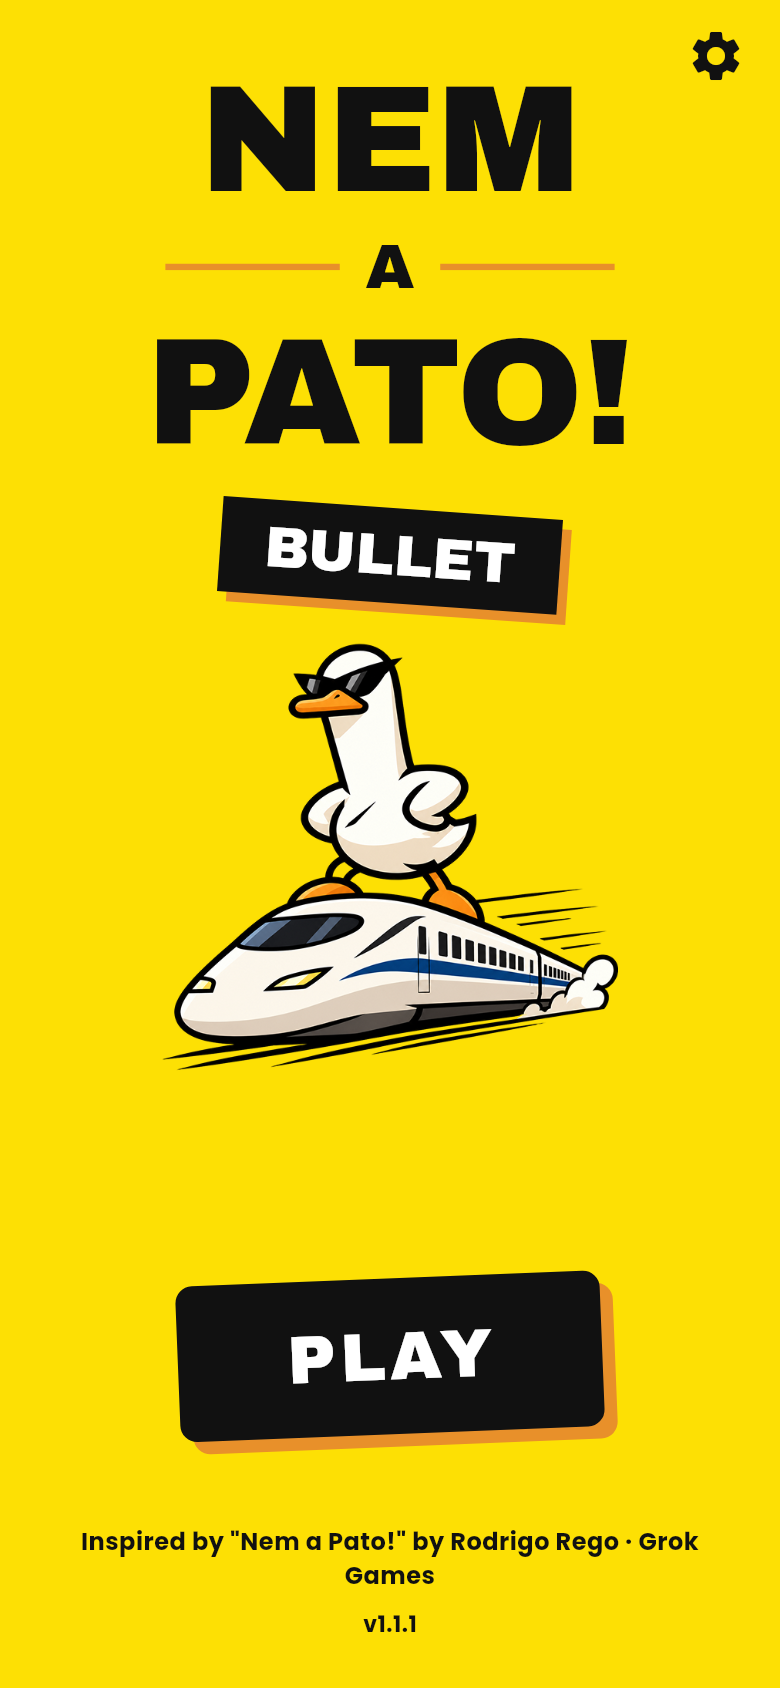
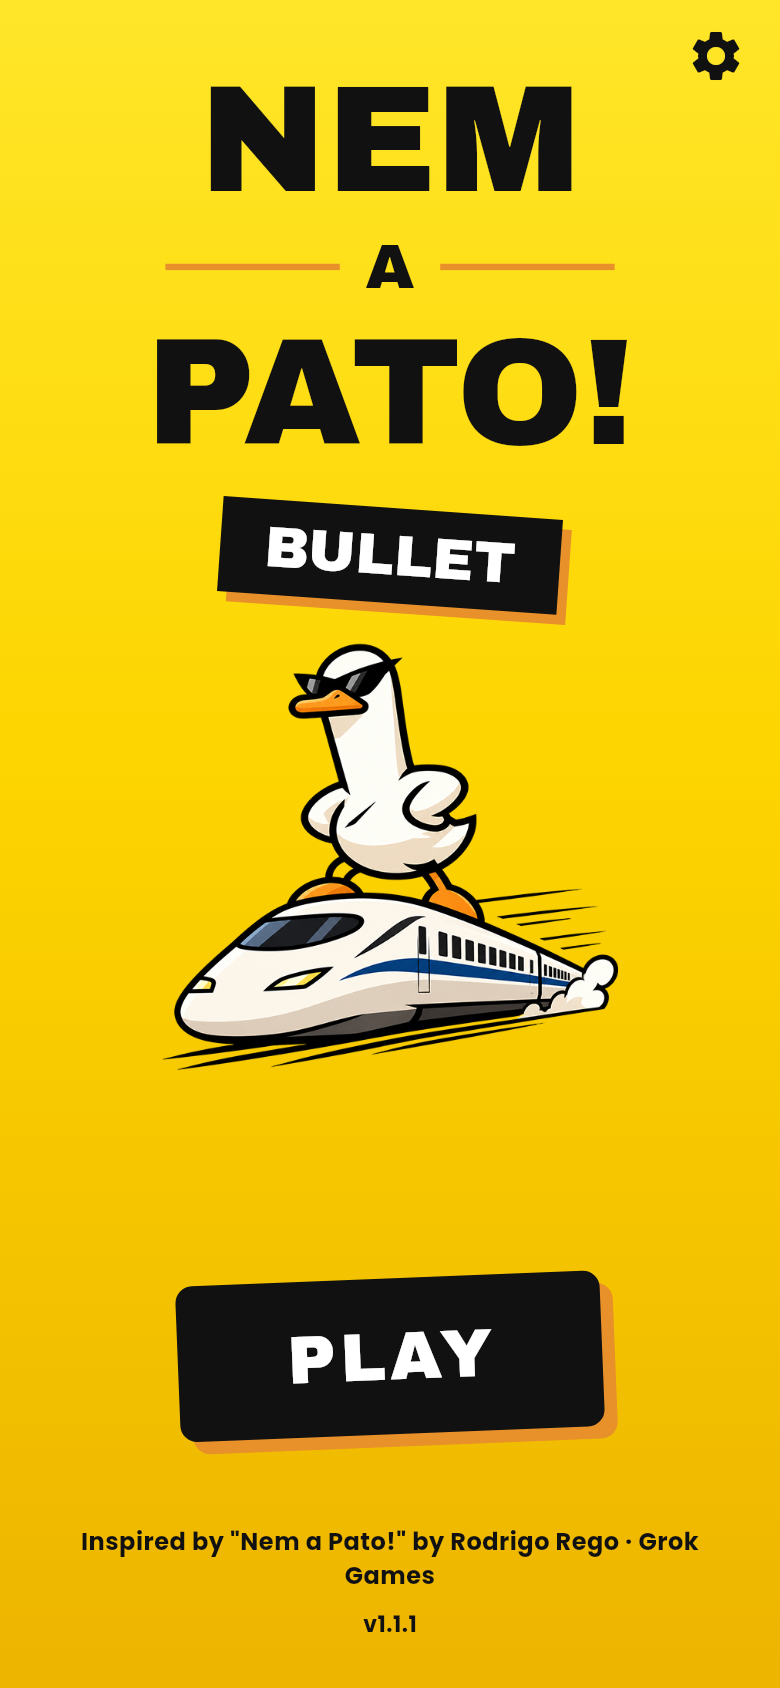
chore: update README.md

diff --git a/README.md b/README.md
@@ -41,12 +41,16 @@ The app is the deck; the game happens at the table.
 - **No repeats:** cards that came up stay out of the deck, even after closing the app. Return them from the settings, or only the current game's cards when they run out.
 - **Your own decks:** import decks from JSON files and export any deck to share it.
 - **Deck symbols:** each deck can have its own SVG symbol.
+- **Light and dark themes:** a yellow theme and a dark one, switched in the settings and remembered on the device.
 - **Portuguese and English:** the app's texts switch language; deck content always stays exactly as written.
 - **Auto-update:** the app checks GitHub Releases and offers new versions.
 - **Fully offline**, portrait, made for Android.
 
 <p align="center">
-  <img src=".github/assets/settings.png" width="200" alt="Settings with updates, language, card history and decks">
+  <img src=".github/assets/home-dark.png" width="200" alt="Home screen in the dark theme, with the yellow title and PLAY button">
+  <img src=".github/assets/question-dark.png" width="200" alt="A question card in the dark theme, over a subtle sunburst">
+  <img src=".github/assets/settings.png" width="200" alt="Settings in the light theme with updates, theme, language, card history and decks">
+  <img src=".github/assets/settings-dark.png" width="200" alt="Settings in the dark theme with the Dark option selected">
 </p>
 
 ## Install
